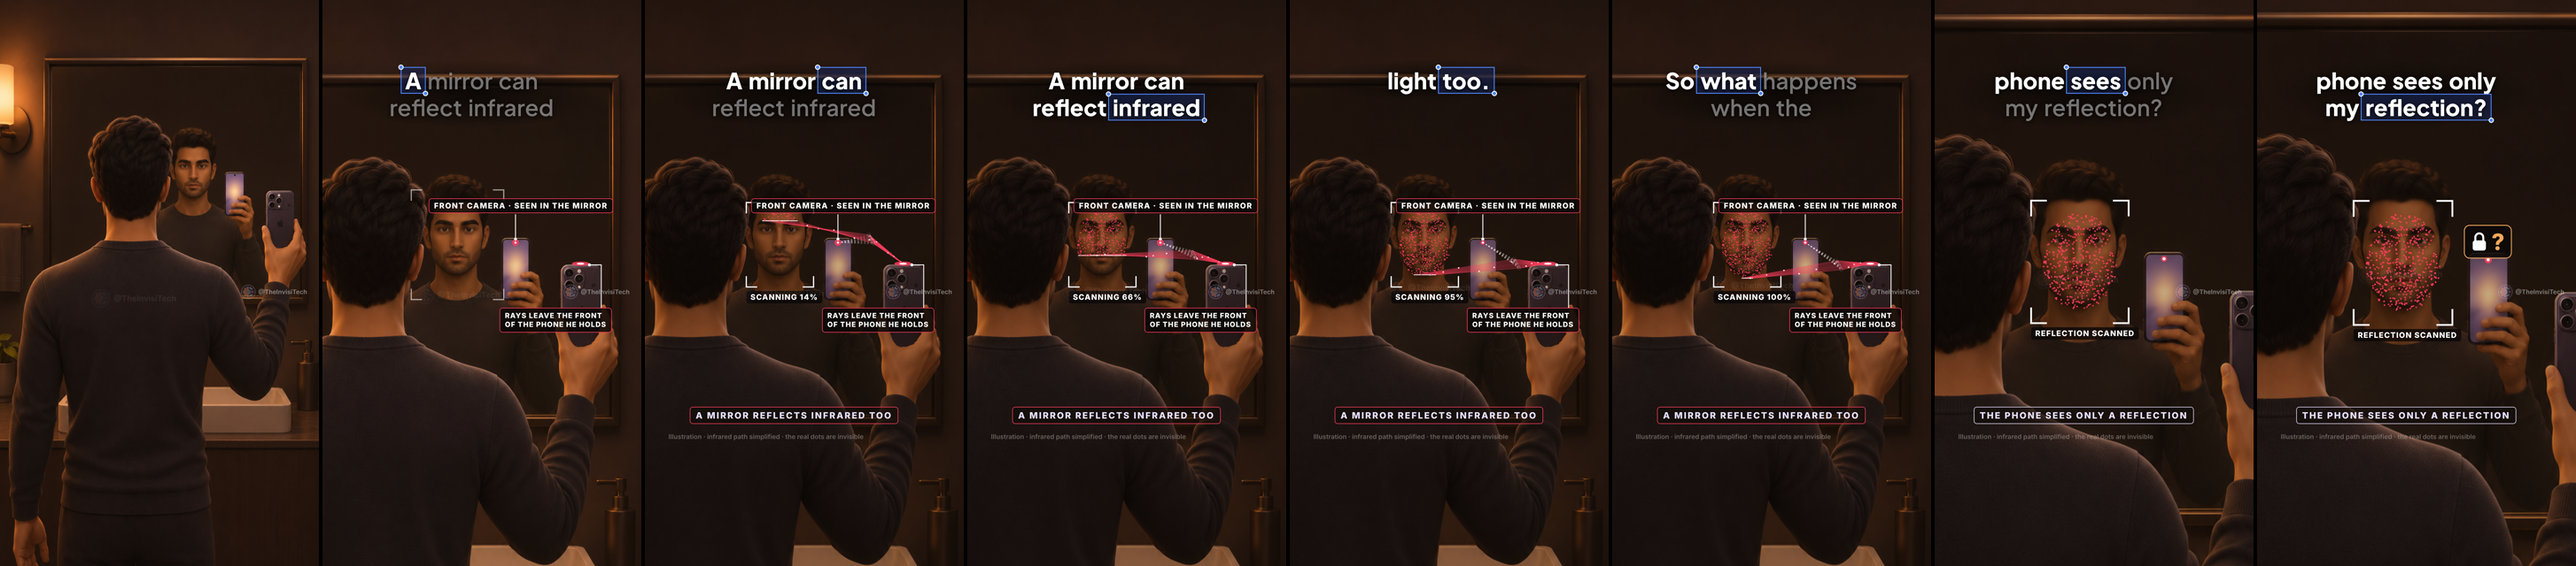
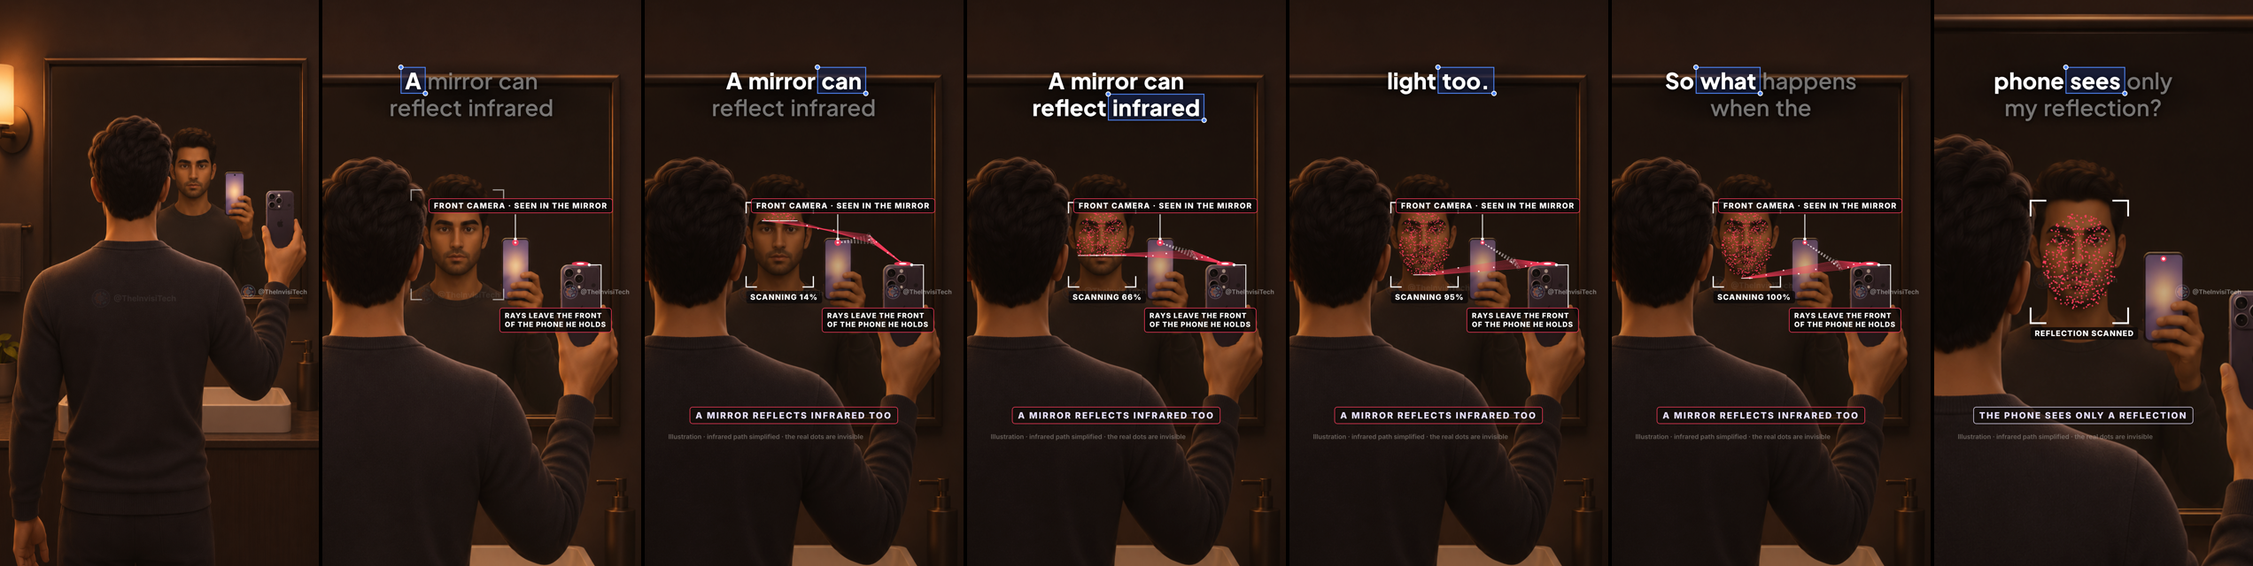
Mirror Face ID Short: restore the first rear-view mirror scene (stills only)
Dots stream from his phone to the glass with ripples and light up his reflected face, then the
scan frame and closed padlock with a question mark. The stream now starts at the phone's top edge.

Claude-Session: https://claude.ai/code/session_01GXcKc5WnFrVWBsHLe8YpAy

diff --git a/face-id/mirror-short/src/scenes/Mirror.tsx b/face-id/mirror-short/src/scenes/Mirror.tsx
@@ -2,87 +2,62 @@ import { AbsoluteFill, Img, interpolate, staticFile, useCurrentFrame } from 'rem
 import { C, FONT, Label, clamp, ramp } from '../theme';
 
 // Scene 5 (8 s, 240 frames): "Here's the twist. A mirror can reflect infrared light too. So what happens
-// when the phone sees only my reflection?"  Seen from behind him (public/bathroom_rear.png, 941 x 1672).
-// The dot projector is on the FRONT of the phone he is holding. From behind we cannot see that side, so:
-//  - the rays leave the top edge of his real phone (from its hidden front, never from the back cameras),
-//  - the mirror shows that front camera glowing, with the mirror image of the same rays,
-//  - both meet at the glass, and the reflected rays land on the face we see in the mirror.
+// when the phone sees only my reflection?"  Seen from behind him (public/bathroom_rear.png, 941 x 1672):
 //   0– 35  cut to the rear view and push in toward the mirror
-//  40–130  the front camera in the mirror lights up; a fan of red rays sweeps down his reflected face
-//          and the dot pattern appears behind it, with a scan frame and a running percentage
-// 130–240  second push-in on the reflection; closed padlock with a question mark. No result is shown.
+//  40–125  red dots leave his phone, hit the glass (ripples) and light up his reflected face
+// 130–240  a scan frame locks onto the reflection; closed padlock with a question mark. No result is shown.
 const K = 1080 / 941;
-const SRC = [822, 537];                                                   // top edge of the phone in his hand (its front faces the mirror)
-const CAM = [702, 498], FACE = { x: 595, y: 502, rx: 47, ry: 62 };      // front camera of the reflected phone; reflected face
+const PHONE = [822, 538],   // top edge of the phone he holds (its front faces the mirror), not the back cameras
+const GLASS = [742, 516], FACE = { x: 595, y: 502, rx: 47, ry: 62 };
 const io = (x: number) => x * x * (3 - 2 * x);
 let seed = 23; const rnd = () => ((seed = (seed * 1664525 + 1013904223) % 4294967296) / 4294967296);
 const DOTS: number[][] = [];
-while (DOTS.length < 460) { const x = rnd() * 2 - 1, y = rnd() * 2 - 1; if (x * x + y * y < 1) DOTS.push([FACE.x + x * FACE.rx, FACE.y + y * FACE.ry, rnd()]); }
-const FAN = [-0.92, -0.69, -0.46, -0.23, 0, 0.23, 0.46, 0.69, 0.92];
+while (DOTS.length < 430) { const x = (rnd() * 2 - 1), y = (rnd() * 2 - 1); if (x * x + y * y < 1) DOTS.push([FACE.x + x * FACE.rx, FACE.y + y * FACE.ry, rnd()]); }
+const STREAM = Array.from({ length: 70 }, () => [rnd(), (rnd() - 0.5) * 14, rnd()]);
 
 export const Mirror: React.FC = () => {
   const l = useCurrentFrame();
-  const a = ramp(l, 0, 35, 0, 1, io), b = ramp(l, 136, 170, 0, 1, io);
+  const a = ramp(l, 0, 35, 0, 1, io), b = ramp(l, 130, 165, 0, 1, io);
   const s = 1 + 0.6 * a + 0.75 * b;
-  const fx = interpolate(a, [0, 1], [470.5, 640], clamp) + (612 - 640) * b, fy = interpolate(a, [0, 1], [784, 540], clamp) + (505 - 540) * b;
+  const fx = interpolate(a, [0, 1], [470.5, 640], clamp) + (608 - 640) * b, fy = interpolate(a, [0, 1], [784, 540], clamp) + (505 - 540) * b;
   const tx = 540 - fx * K * s, ty = 900 - fy * K * s;
   const scr = (x: number, y: number) => [x * K * s + tx, y * K * s + ty];
-  const scan = ramp(l, 50, 128), pct = Math.round(scan * 100);
-  const sy = FACE.y - FACE.ry + scan * 2 * FACE.ry;                      // the line being scanned right now
-  const half = FACE.rx * Math.sqrt(Math.max(0.05, 1 - ((sy - FACE.y) / FACE.ry) ** 2));   // face width at that line
-  const fire = ramp(l, 44, 50) * (1 - ramp(l, 128, 136));
-  const B = { x0: FACE.x - 62, x1: FACE.x + 62, y0: FACE.y - 78, y1: FACE.y + 78 }, g = 26 * (1 - ramp(l, 42, 52, 0, 1, io));
+  const fire = ramp(l, 40, 46) * (1 - ramp(l, 118, 128));
+  const appear = (d: number[]) => 66 + ((FACE.x + FACE.rx - d[0]) / (2 * FACE.rx)) * 28 + d[2] * 6;   // near side of the face first
+  const lock = ramp(l, 134, 146, 0, 1, io);
+  const B = { x0: FACE.x - 62, x1: FACE.x + 62, y0: FACE.y - 78, y1: FACE.y + 78 }, g = 26 * (1 - lock);     // brackets close in
   const corner = (x: number, y: number, dx: number, dy: number) => `M ${x + dx * 20} ${y} H ${x} V ${y + dy * 20}`;
-  const [cx, cy] = scr(CAM[0], CAM[1]), [bx, by] = scr(B.x0, B.y1), [qx, qy] = scr(B.x1 + 14, B.y0 + 30);
+  const [qx, qy] = scr(B.x1 + 16, B.y0 + 10);
   return (
     <AbsoluteFill style={{ backgroundColor: C.bg, overflow: 'hidden' }}>
       <div style={{ position: 'absolute', left: 0, top: 0, width: 1080, height: 1672 * K, transformOrigin: '0 0', transform: `translate(${tx}px, ${ty}px) scale(${s})` }}>
-        <Img src={staticFile('bathroom_rear.png')} style={{ position: 'absolute', inset: 0, width: 1080, height: 1672 * K, filter: `brightness(${1 - 0.22 * ramp(l, 40, 60)})` }} />
+        <Img src={staticFile('bathroom_rear.png')} style={{ position: 'absolute', inset: 0, width: 1080, height: 1672 * K, filter: `brightness(${1 - 0.22 * ramp(l, 40, 70)})` }} />
         <svg viewBox="0 0 941 1672" style={{ position: 'absolute', inset: 0, width: 1080, height: 1672 * K }}>
-          {/* rays from the front camera (in the mirror) to the line of his face being scanned */}
+          {/* dots travelling from the phone to the glass */}
           <g opacity={fire}>
-            {FAN.map((k, i) => { const x = FACE.x + k * half, u = ((l / 9) + i * 0.37) % 1;
-              const gx = 764 + k * 5, gy = 512 + (sy - FACE.y) * 0.45 + k * 9;         // where this ray meets the glass, between the two phones
-              const pos = u < 0.5 ? [SRC[0] + (gx - SRC[0]) * u * 2, SRC[1] + (gy - SRC[1]) * u * 2] : [gx + (x - gx) * (u - 0.5) * 2, gy + (sy - gy) * (u - 0.5) * 2];
-              return (
-              <g key={i}>
-                <line x1={SRC[0]} y1={SRC[1]} x2={gx} y2={gy} stroke={C.ir} strokeWidth={1} opacity={0.9} />
-                <line x1={CAM[0]} y1={CAM[1]} x2={gx} y2={gy} stroke={C.irCore} strokeWidth={0.6} strokeDasharray="3 3" opacity={0.6} />
-                <line x1={gx} y1={gy} x2={x} y2={sy} stroke={C.ir} strokeWidth={0.75} opacity={0.75} />
-                <circle cx={gx} cy={gy} r={1.6 + 2.2 * u} fill="none" stroke={C.irCore} strokeWidth={0.6} opacity={0.8 * (1 - u)} />
-                <circle cx={pos[0]} cy={pos[1]} r={1.4} fill={C.irCore} />
-              </g>); })}
-            <line x1={FACE.x - half} x2={FACE.x + half} y1={sy} y2={sy} stroke={C.irCore} strokeWidth={1.4} />
+            <line x1={PHONE[0]} y1={PHONE[1]} x2={GLASS[0]} y2={GLASS[1]} stroke={C.ir} strokeWidth={0.8} opacity={0.5} />
+            {STREAM.map(([p, off, c], i) => { const u = (p + l / 16) % 1; return <circle key={i} cx={PHONE[0] + (GLASS[0] - PHONE[0]) * u} cy={PHONE[1] + (GLASS[1] - PHONE[1]) * u + off * u * (1 - u) * 2} r={0.9 + 0.5 * c} fill={C.ir} />; })}
+            {/* ripples where the light meets the mirror */}
+            {[0, 1, 2].map((k) => { const u = ((l - 48) / 26 + k / 3) % 1; return l > 48 ? <ellipse key={k} cx={GLASS[0]} cy={GLASS[1]} rx={4 + 20 * u} ry={7 + 34 * u} fill="none" stroke={C.irCore} strokeWidth={1.1} opacity={0.75 * (1 - u)} /> : null; })}
+            {/* reflected fan from the glass to his reflected face */}
+            {[-0.9, -0.45, 0, 0.45, 0.9].map((k) => <line key={k} x1={GLASS[0]} y1={GLASS[1]} x2={FACE.x + 20} y2={FACE.y + k * FACE.ry} stroke={C.ir} strokeWidth={0.6} opacity={0.3 * ramp(l, 62, 70)} />)}
+            <circle cx={PHONE[0]} cy={PHONE[1]} r={5} fill={C.ir} opacity={0.9} /><circle cx={PHONE[0]} cy={PHONE[1]} r={2} fill="#fff" />
           </g>
-          {/* the dot pattern appears behind the scan line */}
-          {DOTS.map((d, i) => (d[1] <= sy && l >= 50 ? <circle key={i} cx={d[0]} cy={d[1]} r={1.05} fill={C.ir} opacity={0.7 + 0.3 * d[2]} /> : null))}
-          {/* the hidden front of his real phone: light spilling over its top edge */}
-          <g opacity={ramp(l, 38, 44) * (1 - ramp(l, 128, 136))}><ellipse cx={SRC[0]} cy={SRC[1]} rx={16} ry={4} fill={C.ir} opacity={0.85} /><ellipse cx={SRC[0]} cy={SRC[1]} rx={7} ry={1.8} fill="#fff" /></g>
-          {/* front camera glow on the phone in the mirror */}
-          <g opacity={ramp(l, 38, 44)}><circle cx={CAM[0]} cy={CAM[1]} r={5 + 1.2 * Math.sin(l / 3)} fill={C.ir} opacity={0.85} /><circle cx={CAM[0]} cy={CAM[1]} r={2} fill="#fff" /></g>
+          {/* the dot pattern, seen on his reflected face */}
+          {DOTS.map((d, i) => { const o = ramp(l, appear(d), appear(d) + 3); return o > 0 ? <circle key={i} cx={d[0]} cy={d[1]} r={1.05} fill={C.ir} opacity={o * (0.7 + 0.3 * d[2])} /> : null; })}
           {/* scan frame on the reflection */}
-          <g opacity={ramp(l, 42, 48)} stroke="#fff" strokeWidth={2.2} fill="none">
+          <g opacity={ramp(l, 132, 138)} stroke="#fff" strokeWidth={2.2} fill="none">
             <path d={corner(B.x0 - g, B.y0 - g, 1, 1)} /><path d={corner(B.x1 + g, B.y0 - g, -1, 1)} /><path d={corner(B.x0 - g, B.y1 + g, 1, -1)} /><path d={corner(B.x1 + g, B.y1 + g, -1, -1)} />
+            <line x1={B.x0} x2={B.x1} y1={B.y0 + ((l - 146) % 50) / 50 * (B.y1 - B.y0)} y2={B.y0 + ((l - 146) % 50) / 50 * (B.y1 - B.y0)} strokeWidth={1.2} opacity={l > 146 ? 0.7 : 0} />
           </g>
         </svg>
       </div>
-      {/* tag on the phone in the mirror */}
-      <svg width={1080} height={1920} style={{ position: 'absolute', inset: 0, opacity: ramp(l, 38, 44) * (1 - ramp(l, 130, 136)) }}>
-        <path d={`M ${cx} ${cy - 12} V ${cy - 96}`} stroke="#fff" strokeWidth={3} /><circle cx={cx} cy={cy - 12} r={5} fill="#fff" />
-      </svg>
-      <div style={{ position: 'absolute', left: Math.min(cx - 290, 360), top: cy - 150, opacity: ramp(l, 38, 44) * (1 - ramp(l, 130, 136)), padding: '10px 16px', borderRadius: 10, background: 'rgba(10,8,7,.8)', border: `2px solid ${C.ir}`, font: `800 26px/1 ${FONT}`, letterSpacing: '0.1em', color: '#fff', whiteSpace: 'nowrap' }}>FRONT CAMERA · SEEN IN THE MIRROR</div>
-      {(() => { const [rx, ry] = scr(SRC[0], SRC[1]), o = ramp(l, 38, 44) * (1 - ramp(l, 130, 136)); return (<>
-        <svg width={1080} height={1920} style={{ position: 'absolute', inset: 0, opacity: o }}><path d={`M ${rx + 30} ${ry + 4} H ${rx + 70} V ${ry + 150}`} stroke="#fff" strokeWidth={3} fill="none" /><circle cx={rx + 30} cy={ry + 4} r={5} fill="#fff" /></svg>
-        <div style={{ position: 'absolute', left: Math.min(rx - 150, 600), top: ry + 150, opacity: o, padding: '10px 16px', borderRadius: 10, background: 'rgba(10,8,7,.85)', border: `2px solid ${C.ir}`, font: `800 24px/1.25 ${FONT}`, letterSpacing: '0.08em', color: '#fff' }}>RAYS LEAVE THE FRONT<br />OF THE PHONE HE HOLDS</div>
-      </>); })()}
-      {/* live read-out under the scan frame */}
-      <div style={{ position: 'absolute', left: bx, top: by + 14, opacity: ramp(l, 48, 52), padding: '8px 14px', borderRadius: 8, background: 'rgba(10,8,7,.8)', font: `800 26px/1 ${FONT}`, letterSpacing: '0.08em', color: '#fff', whiteSpace: 'nowrap' }}>{scan < 1 ? `SCANNING ${pct}%` : 'REFLECTION SCANNED'}</div>
       {/* closed padlock + question mark beside the frame */}
-      <div style={{ position: 'absolute', left: Math.min(qx, 800), top: qy, opacity: ramp(l, 176, 182), transform: `scale(${1 + 0.05 * Math.sin(l / 5)})`, display: 'flex', alignItems: 'center', gap: 14, padding: '16px 22px', borderRadius: 20, background: 'rgba(10,8,7,.8)', border: `3px solid ${C.amber}` }}>
+      <div style={{ position: 'absolute', left: Math.min(qx, 830), top: qy, opacity: ramp(l, 168, 174), transform: `scale(${1 + 0.05 * Math.sin(l / 5)})`, display: 'flex', alignItems: 'center', gap: 14, padding: '16px 22px', borderRadius: 20, background: 'rgba(10,8,7,.8)', border: `3px solid ${C.amber}` }}>
         <svg width={56} height={70} viewBox="-36 -46 72 92"><path d="M -18 -6 v -14 a 18 18 0 0 1 36 0 v 14" stroke="#fff" strokeWidth={9} strokeLinecap="round" fill="none" /><rect x={-30} y={-6} width={60} height={46} rx={11} fill="#fff" /></svg>
         <span style={{ font: `800 78px/1 ${FONT}`, color: C.amber }}>?</span>
       </div>
-      <Label text="A MIRROR REFLECTS INFRARED TOO" x={505} y={1380} o={ramp(l, 46, 50) * (1 - ramp(l, 130, 136))} size={30} align="center" color={C.ir} />
+      <Label text="A MIRROR REFLECTS INFRARED TOO" x={505} y={1380} o={ramp(l, 46, 50) * (1 - ramp(l, 124, 130))} size={30} align="center" color={C.ir} />
       <Label text="THE PHONE SEES ONLY A REFLECTION" x={505} y={1380} o={ramp(l, 140, 144)} size={30} align="center" color={C.label} />
       <div style={{ position: 'absolute', left: 80, top: 1470, opacity: 0.5 * ramp(l, 46, 50), font: `600 22px/1 ${FONT}`, color: '#b5ada5' }}>Illustration · infrared path simplified · the real dots are invisible</div>
     </AbsoluteFill>
